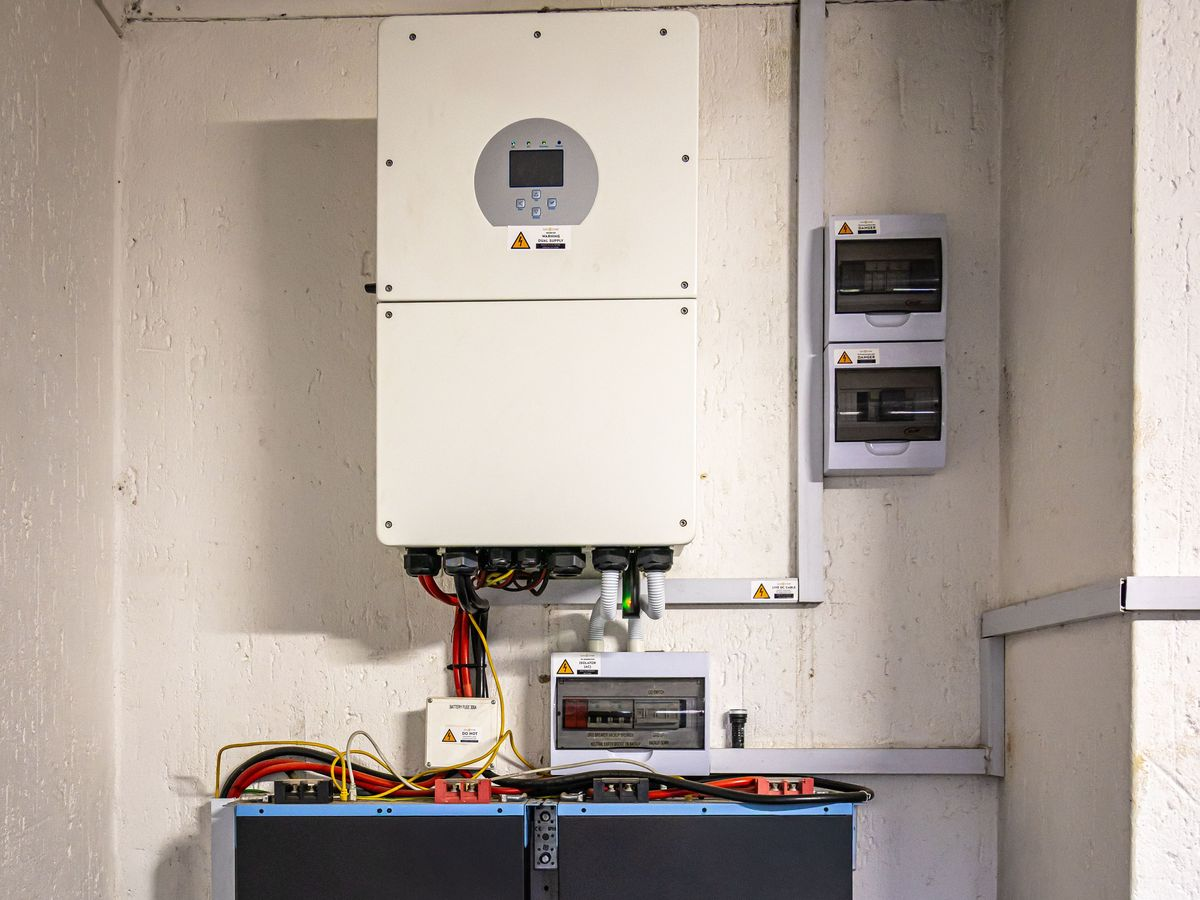
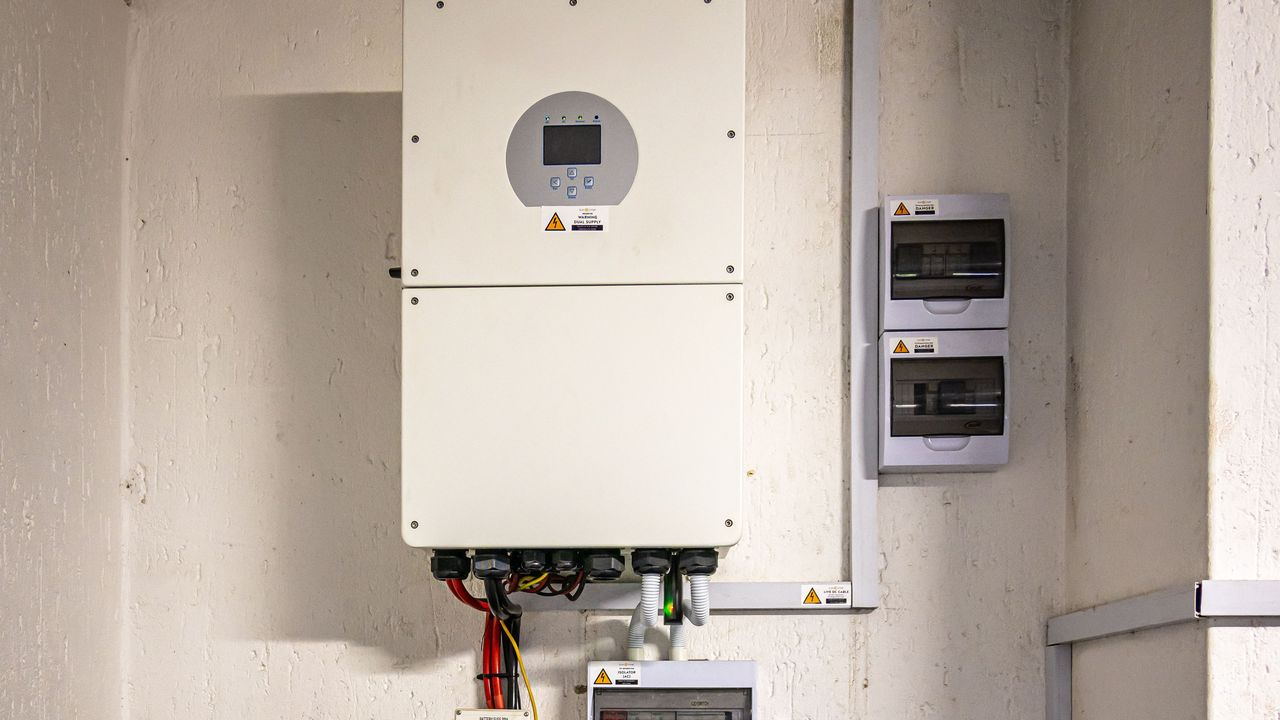
Add files via upload

diff --git a/articles/mppt-vs-pwm-charge-controllers.html b/articles/mppt-vs-pwm-charge-controllers.html
@@ -113,7 +113,7 @@
   <article class="article">
 
     <figure class="article-figure">
-      <img src="../images/mppt-vs-pwm-charge-controller.jpg" alt="An off-grid solar installation: a wall-mounted hybrid inverter with a built-in MPPT charge controller, isolators, and a fuse, sitting above a stacked lithium battery bank with red and black cabling" loading="lazy" width="1200" height="900">
+      <img src="../images/mppt-vs-pwm-charge-controller.jpg" alt="An off-grid solar installation: a wall-mounted hybrid inverter with a built-in MPPT charge controller, isolators, and a fuse, sitting above a stacked lithium battery bank with red and black cabling" loading="lazy" width="1280" height="720">
       <figcaption>An off-grid system: a hybrid inverter with a built-in MPPT charge controller, feeding and charging a lithium battery bank.</figcaption>
     </figure>
 
